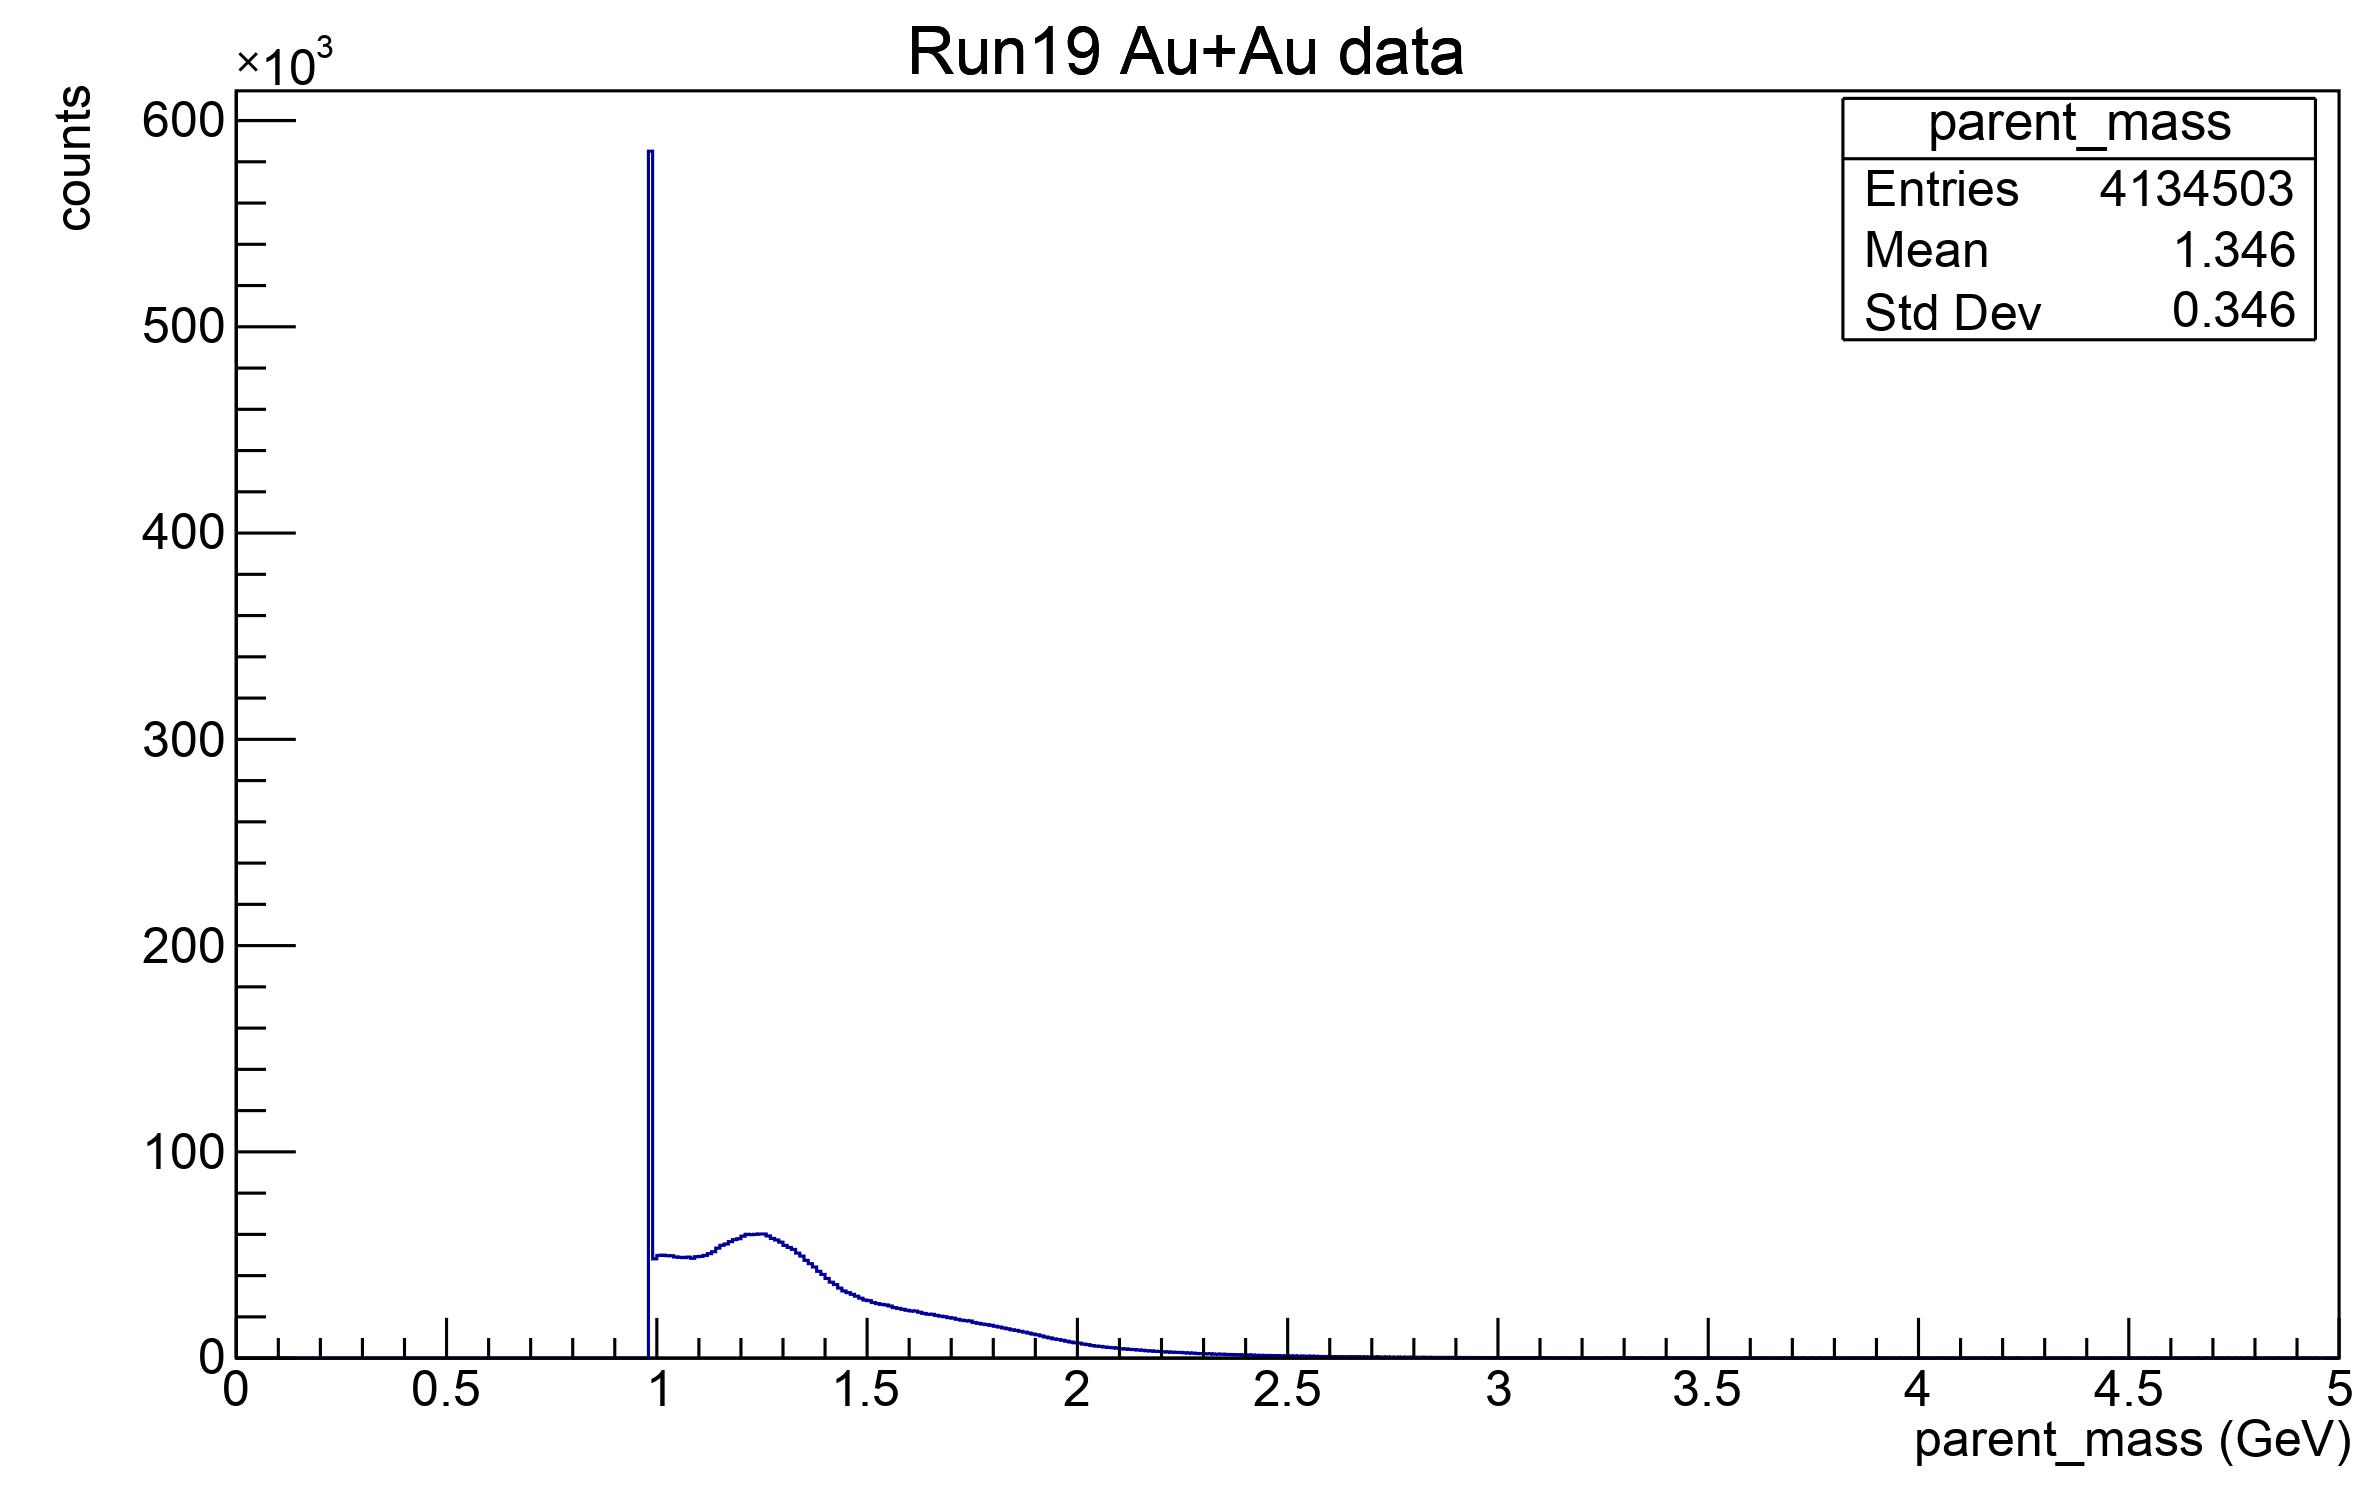
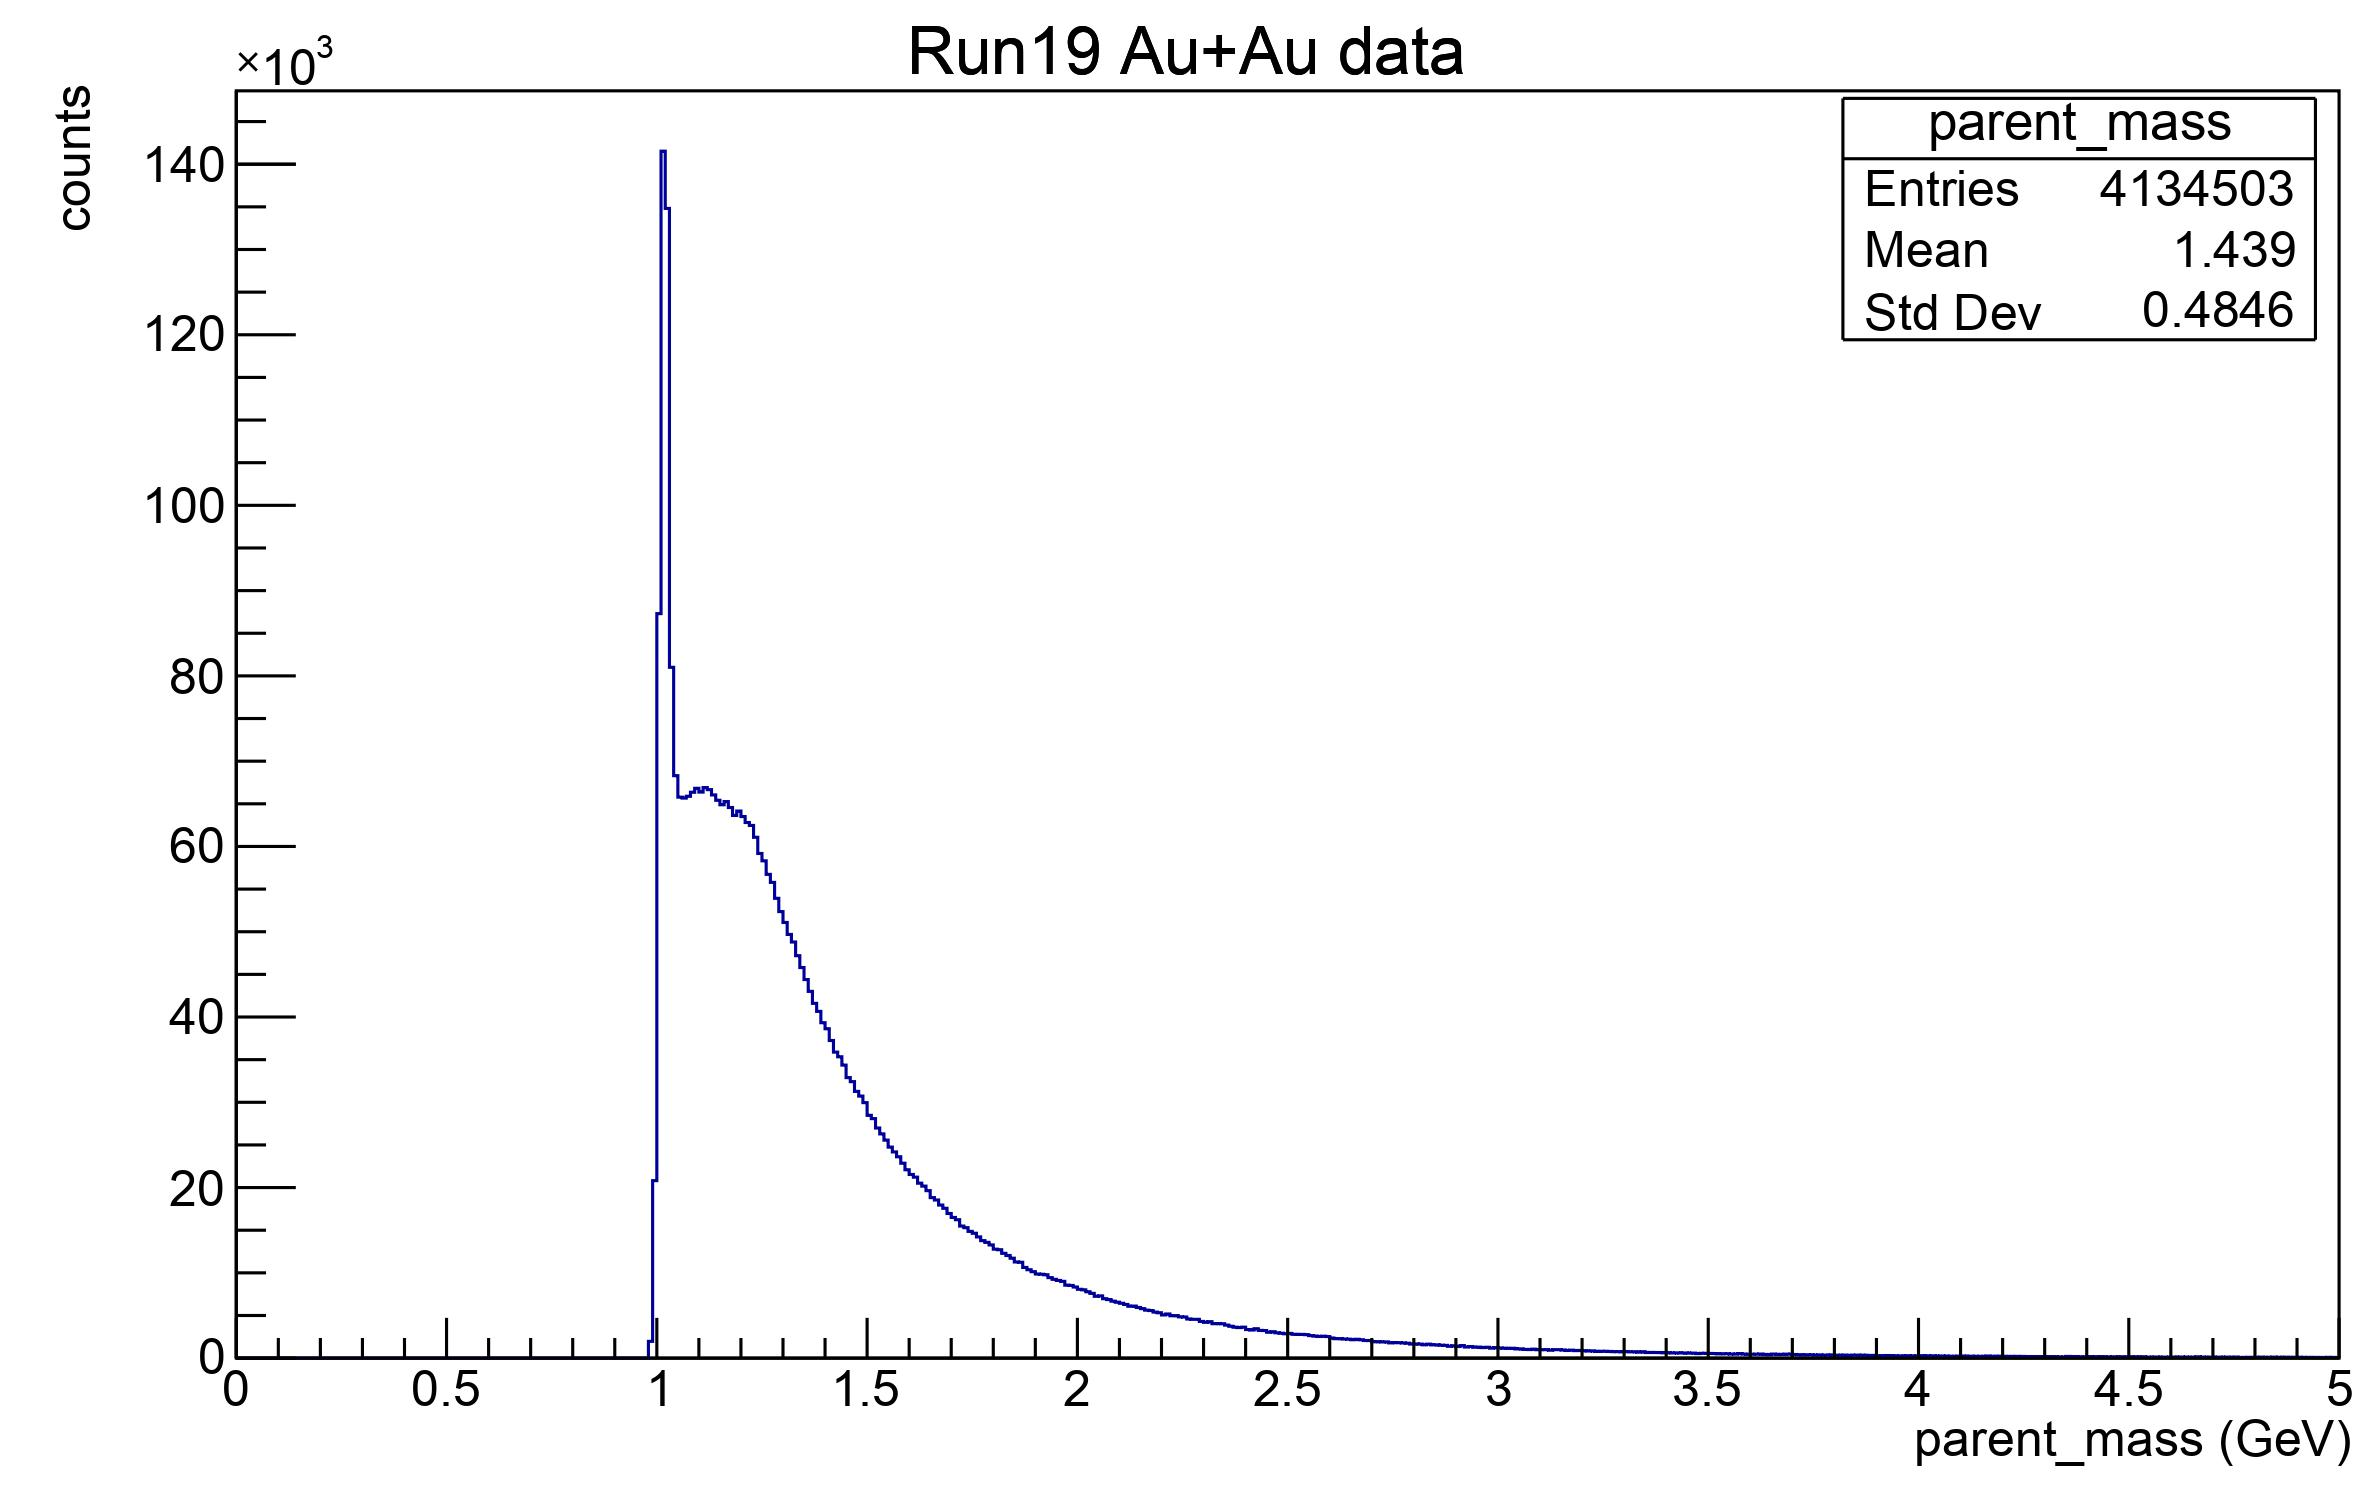
modified energy calculation for phi and its dauther particles

diff --git a/ana.C b/ana.C
@@ -40,7 +40,7 @@ void ana() {
     // Lorentz vectors (4-vectors) for kinematics in special relativity
     TLorentzVector lv1, lv2, lv;
 
-    float parent_mass;
+    double parent_mass;
    // // Loop over all entries of the TTree or TChain.
     while (myReader.Next()) {
         // get their distance to closest approach ( info about track pair)
@@ -64,18 +64,19 @@ void ana() {
             double px1 = cos(pair->d1_mPhi) * (pair->d1_mPt);
             double py1 = sin(pair->d1_mPhi) * (pair->d1_mPt);
             double pz1 = sinh(pair-> d1_mEta) * (pair-> d1_mPt);
-            double e1 = fabs(px1) + fabs(py1) + fabs(pz1) + 0.493;
+            double e1 = sqrt(pow(px1, 2.)+pow(py1, 2.)+pow(pz1,2.) + pow(0.493,2.));
             // compute the four-momentum vector for particle 2
             double px2 = cos(pair->d2_mPhi) * (pair->d2_mPt);
             double py2 = sin(pair->d2_mPhi) * (pair->d2_mPt);
             double pz2 = sinh(pair-> d2_mEta) * (pair-> d2_mPt);
-            double e2 = fabs(px2) + fabs(py2) + fabs(pz2) + 0.493;
+            double e2 = sqrt(pow(px2, 2.)+pow(py2, 2.)+pow(pz2,2.) + pow(0.493,2.));
 
             // use conservation of momentum and energy to set the four-momentum
             // vector for parent particle.
             lv.SetPxPyPzE(px1+px2, py1 + py2, pz1 + pz2, e1 + e2);
             // extract the parent mass from the parent four vector
             parent_mass = lv.E() - fabs(lv.Px()) - fabs(lv.Py()) - fabs(lv.Pz());
+            parent_mass = sqrt(pow(lv.E(),2) - pow(lv.Px(), 2.)+pow(lv.Py(), 2.)+pow(lv.Pz(),2.));
 
             mass->Fill( parent_mass );
         } // selection

diff --git a/Intro_Tasks/intro_tasks.md b/Intro_Tasks/intro_tasks.md
@@ -52,4 +52,4 @@ I will definitely need to review my special relativity knowledge and get familia
 
 ![parent_mass_log](parent_mass_log.jpg)
 
-I think the resonance mass is just below 1GeV, which is slightly different from the $\phi_{1020}$ measurement from the PDG.
+I think the resonance mass is just around 1GeV. 
